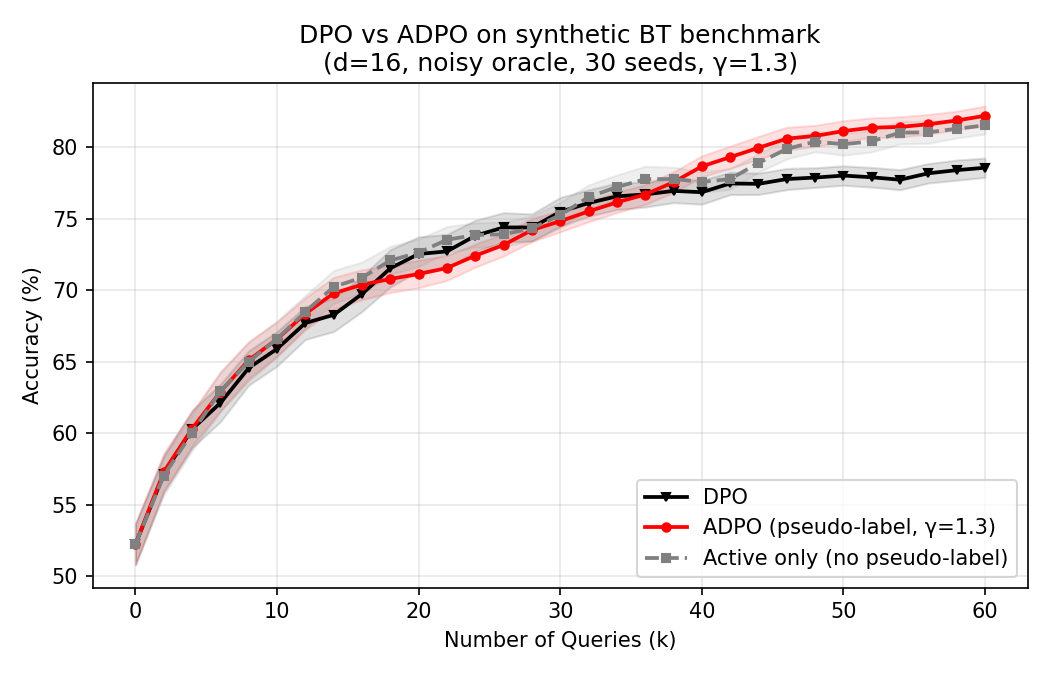
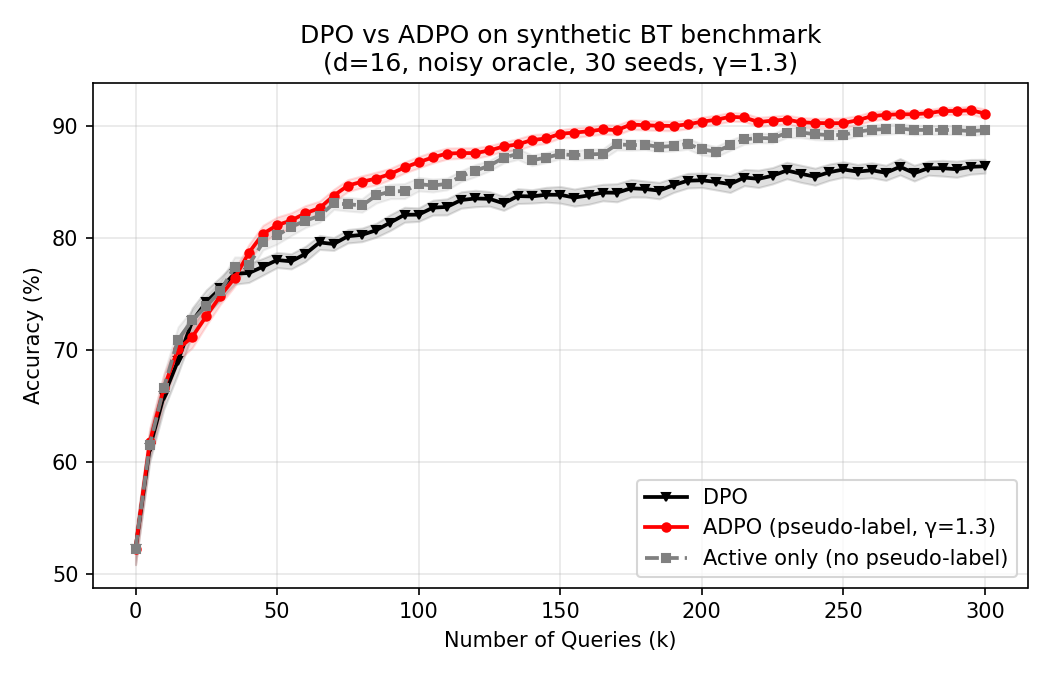
Extend query budget to k=300 to show persistent plateau gap

diff --git a/ie6520_adpo_replication.py b/ie6520_adpo_replication.py
@@ -36,8 +36,8 @@ N_TEST = 3000
 LR = 0.1
 GAMMA = 1.3              # paper default
 REWARD_SCALE = 0.5       # shrinks |r1 - r2| so the BT oracle is noisier
-MAX_STEPS = 4000         # hard cap on per-run training steps
-QUERY_BUDGETS = np.arange(0, 62, 2)   # x-axis: oracle queries k in {0,2,...,60}
+MAX_STEPS = 20000        # hard cap on per-run training steps
+QUERY_BUDGETS = np.arange(0, 305, 5)  # x-axis: oracle queries k in {0,5,...,300}
 
 
 # ====== Environment ======
